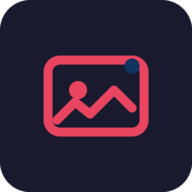
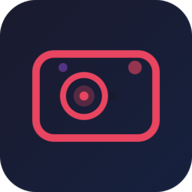
pwa fix

diff --git a/frontend/src/pages/Settings.jsx b/frontend/src/pages/Settings.jsx
@@ -1,6 +1,6 @@
 import { useState, useEffect } from "react";
 import { useNavigate } from "react-router-dom";
-import { Settings as SettingsIcon, ArrowRight, Palette, Save } from "lucide-react";
+import { Settings as SettingsIcon, ArrowRight, Palette, Save, Trash2 } from "lucide-react";
 import { getPref, setPref } from "../services/db";
 import "./Settings.css";
 
@@ -37,6 +37,7 @@ function Settings() {
   const [accentColor, setAccentColor] = useState("#3498db");
   const [columns, setColumnsState] = useState("auto");
   const [savedNickname, setSavedNickname] = useState("");
+  const [cacheStatus, setCacheStatus] = useState("idle");
   const navigate = useNavigate();
 
   useEffect(() => {
@@ -66,6 +67,26 @@ function Settings() {
   const handleNicknameSave = () => {
     setPref("nickname", savedNickname.trim());
   };
+
+  const handleClearCache = () => {
+    if (!("serviceWorker" in navigator) || !navigator.serviceWorker.controller) {
+      setCacheStatus("no-sw");
+      return;
+    }
+    setCacheStatus("clearing");
+    navigator.serviceWorker.controller.postMessage({ type: "CLEAR_CACHES" });
+  };
+
+  useEffect(() => {
+    const onMsg = (e) => {
+      if (e.data.type === "CACHES_CLEARED") {
+        setCacheStatus("done");
+        setTimeout(() => setCacheStatus("idle"), 2000);
+      }
+    };
+    navigator.serviceWorker.addEventListener("message", onMsg);
+    return () => navigator.serviceWorker.removeEventListener("message", onMsg);
+  }, []);
 
   return (
     <div className="settings">
@@ -121,6 +142,20 @@ function Settings() {
           <button className="settings__btn" onClick={handleNicknameSave}>
             <Save size={14} /> Save
           </button>
+        </div>
+      </div>
+
+      <div className="settings__card">
+        <h3 className="settings__label">Offline Cache</h3>
+        <p className="settings__desc">
+          Clear all cached files and data. The app will re-fetch everything from the server on next request.
+        </p>
+        <div className="settings__cache-row">
+          <button className="settings__btn settings__btn--danger" onClick={handleClearCache} disabled={cacheStatus === "clearing"}>
+            <Trash2 size={14} /> {cacheStatus === "clearing" ? "Clearing..." : "Clear Cache"}
+          </button>
+          {cacheStatus === "done" && <span className="settings__cache-ok">&checkmark; Cleared!</span>}
+          {cacheStatus === "no-sw" && <span className="settings__cache-err">Service worker not available</span>}
         </div>
       </div>
 

diff --git a/frontend/src/pages/Settings.css b/frontend/src/pages/Settings.css
@@ -90,6 +90,32 @@
   box-shadow: var(--neu-inset);
 }
 
+.settings__btn--danger {
+  background: var(--color-danger, #e74c3c);
+}
+
+.settings__btn--danger:disabled {
+  opacity: 0.5;
+  cursor: default;
+}
+
+.settings__cache-row {
+  display: flex;
+  align-items: center;
+  gap: 0.75rem;
+}
+
+.settings__cache-ok {
+  font-size: 0.8125rem;
+  color: var(--color-success, #2ecc71);
+  font-weight: 600;
+}
+
+.settings__cache-err {
+  font-size: 0.8125rem;
+  color: var(--color-danger, #e74c3c);
+}
+
 .settings__card + .settings__card {
   margin-top: 1rem;
 }

diff --git a/frontend/public/sw.js b/frontend/public/sw.js
@@ -152,6 +152,18 @@ async function serveRange(cachedResponse, rangeHeader) {
   });
 }
 
+// ── Message handler ──────────────────────────────────────────────────
+self.addEventListener("message", (e) => {
+  if (e.data.type === "CLEAR_CACHES") {
+    (async () => {
+      const keys = await caches.keys();
+      await Promise.all(keys.map((k) => caches.delete(k)));
+      const clients = await self.clients.matchAll();
+      clients.forEach((c) => c.postMessage({ type: "CACHES_CLEARED" }));
+    })();
+  }
+});
+
 // ── Fetch dispatch ───────────────────────────────────────────────────
 self.addEventListener("fetch", (e) => {
   const { request } = e;

diff --git a/frontend/src/components/FileViewer.css b/frontend/src/components/FileViewer.css
@@ -604,6 +604,10 @@
     box-shadow: 0 -1px 0 var(--neu-dark);
   }
 
+  .viewer-meta {
+    padding-bottom: 3rem;
+  }
+
   .viewer-media {
     width: 100%;
     height: auto;